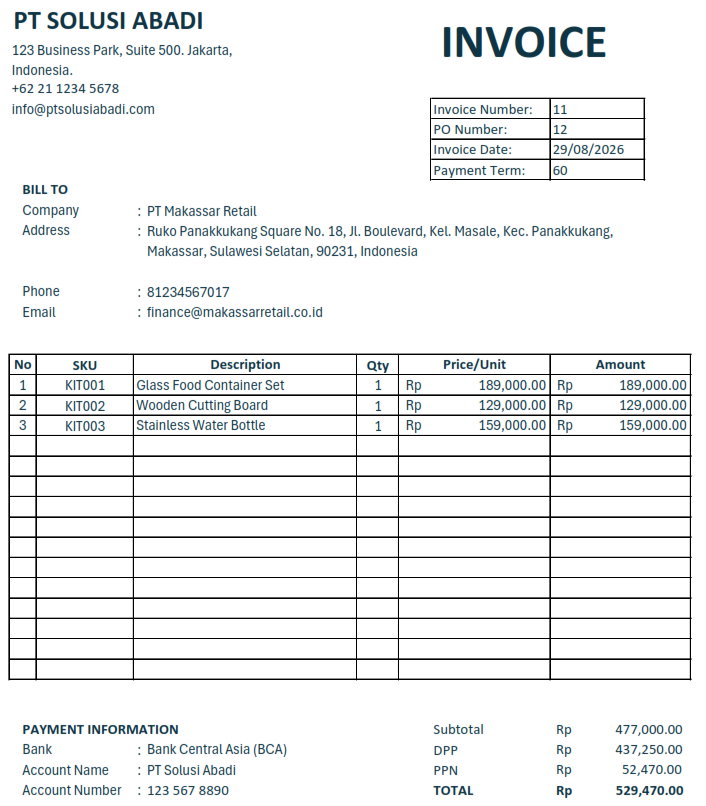
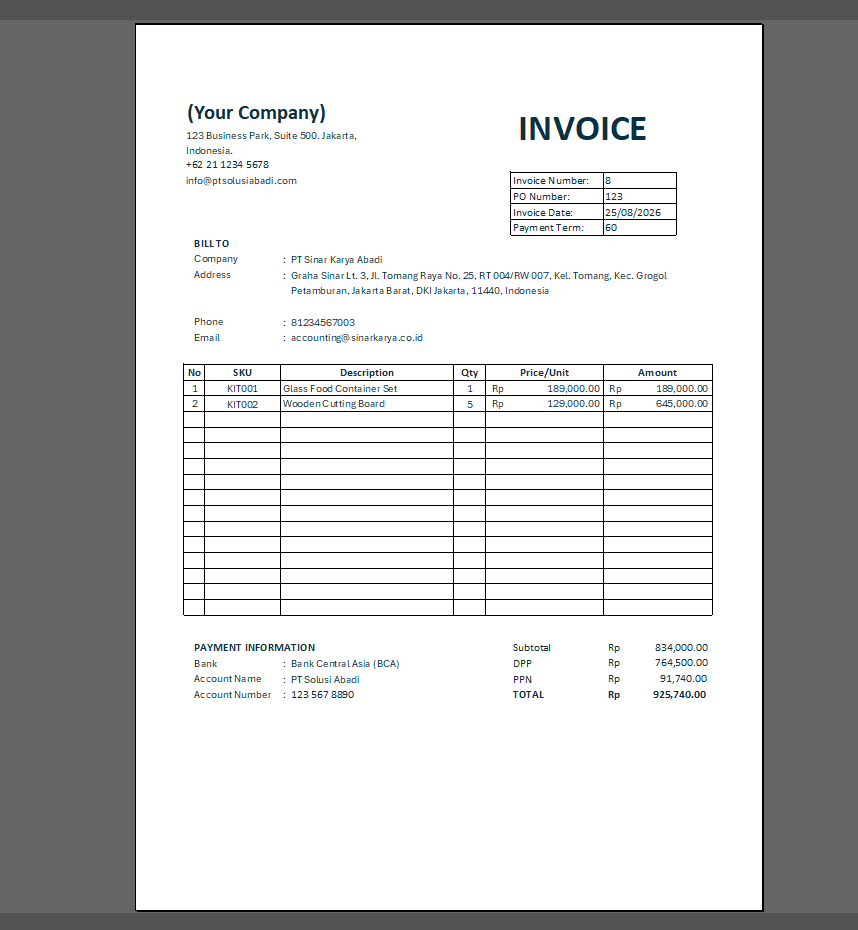
edit doc

diff --git a/README.md b/README.md
@@ -46,8 +46,10 @@ The project aims to transform a traditional Excel invoice workbook into a more s
 
 
 > ## Project Frontpage Preview (WIP)
-### User form create invoice front page:
+### 
+![preview manage invoice](/image/manageInvoice.png)
 ![preview create invoice page](/image/CreateInvoiceUserFormPage.png)  
+![invoice template](/image/invoiceExample.png)
 
 
 ## 🛠 What I've Learned in this Project So far
